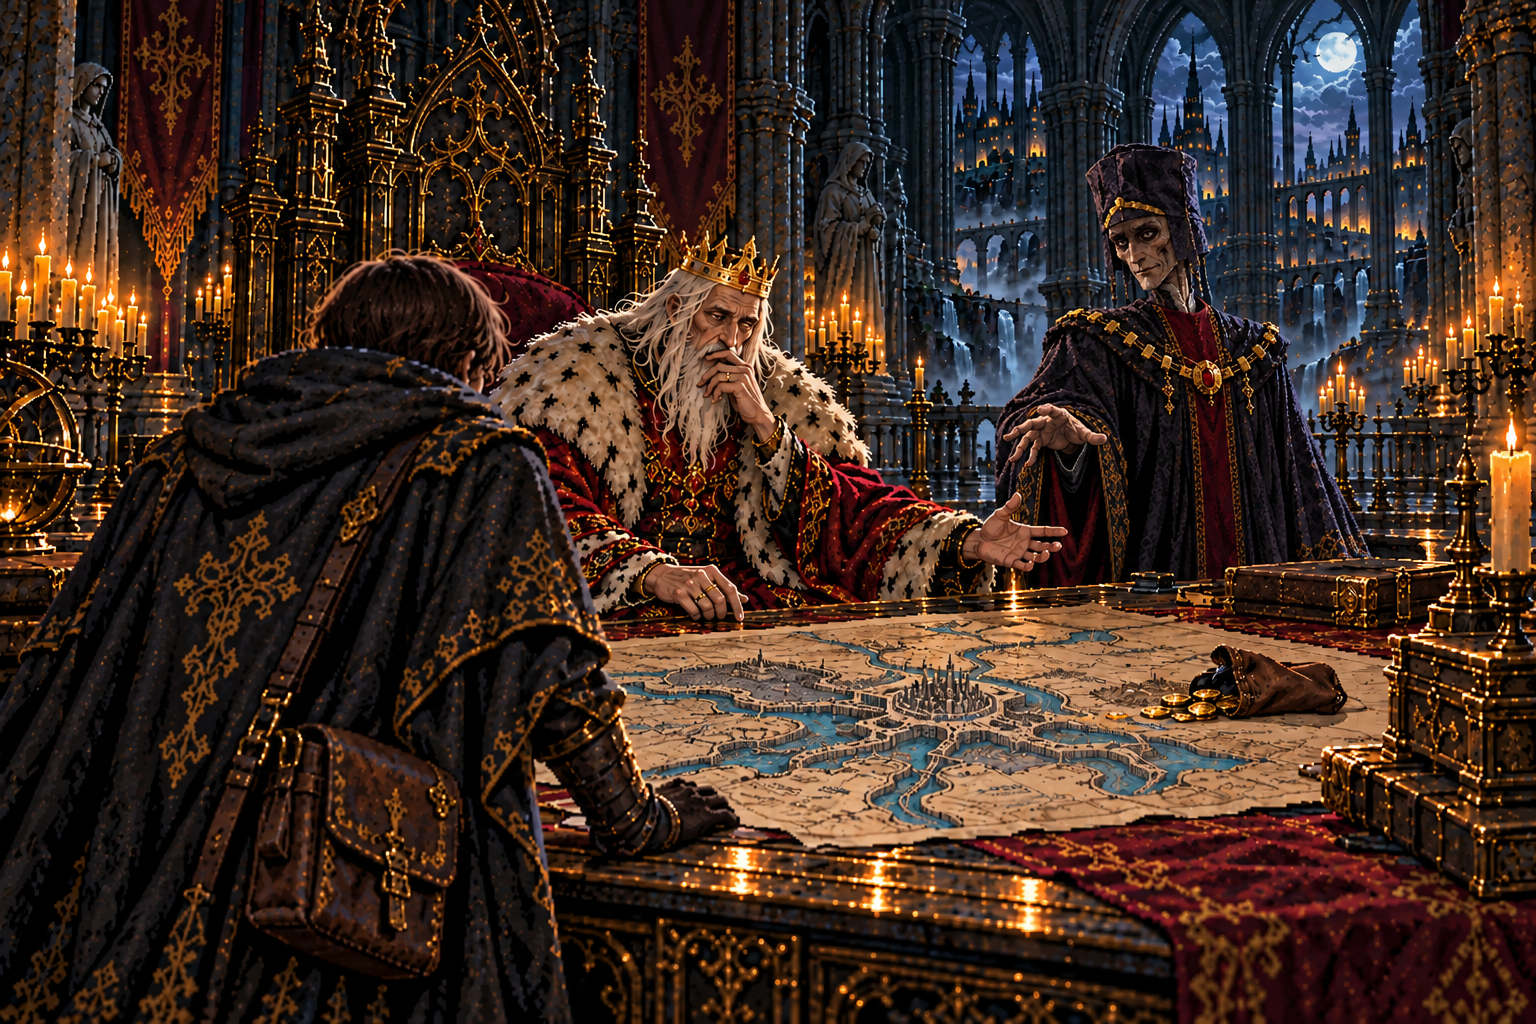
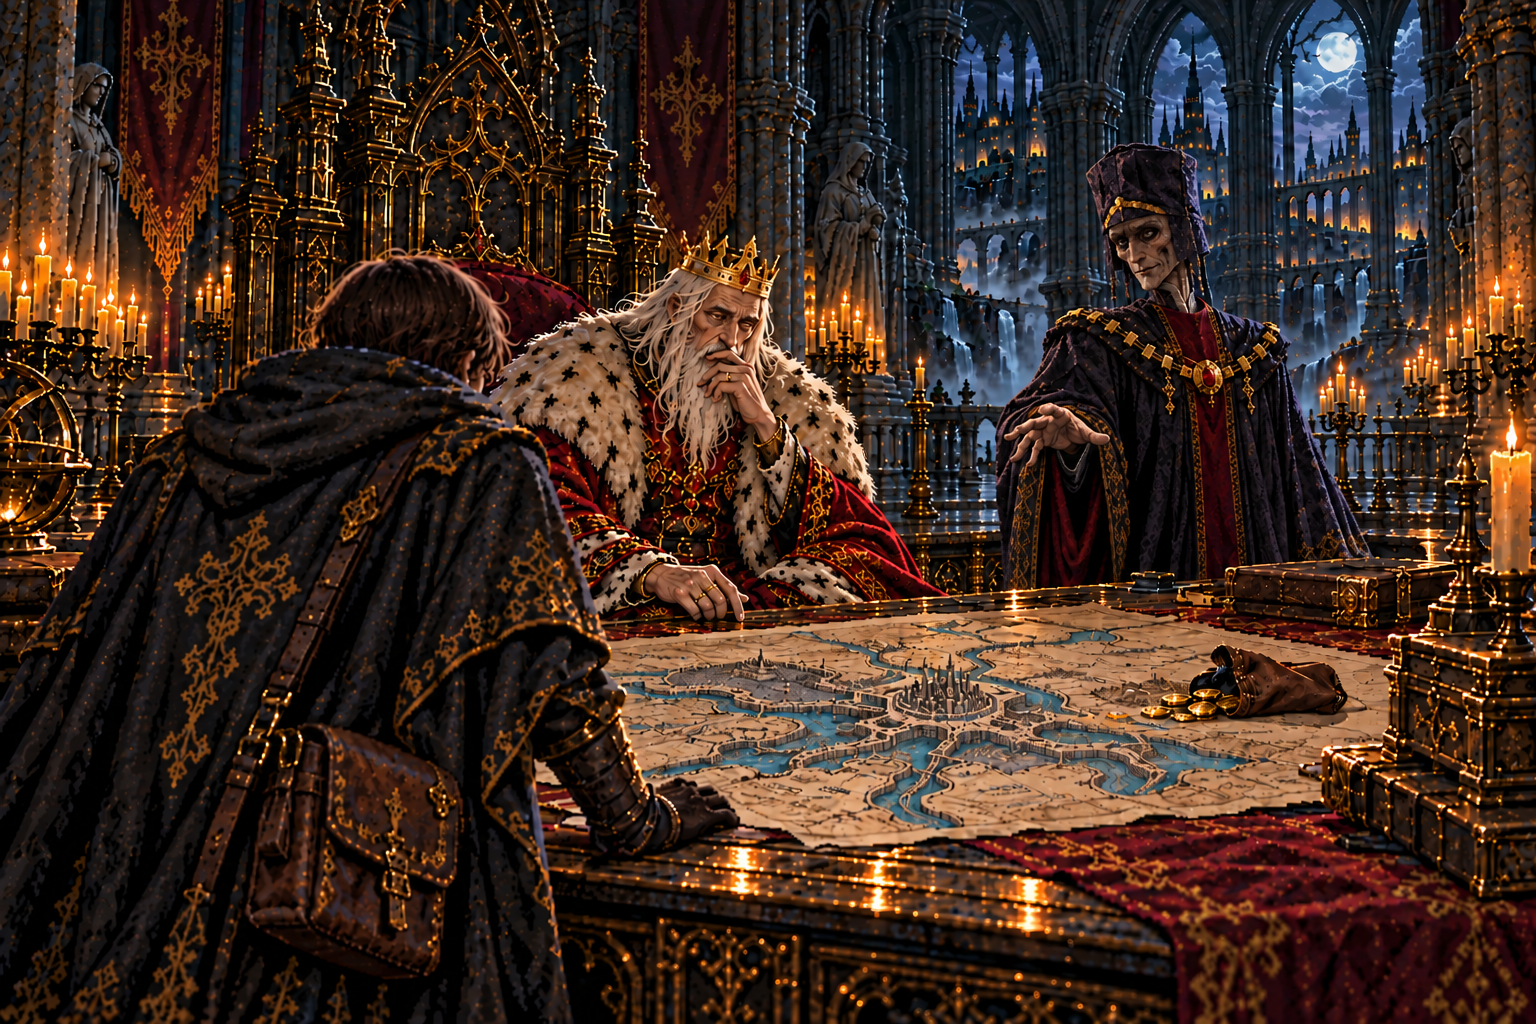
黒い水の行方の王の余分な手を修正

diff --git a/docs/art/codex-story-art-brief.md b/docs/art/codex-story-art-brief.md
@@ -214,6 +214,13 @@ Character reference sheet on a plain dark slate-blue background with soft even l
 
 ### A. 必須 (物語の筋や正典と食い違う)
 
+**A-36. 第一章 report_w04「答えを飲み込んだ王」** `art/story-review/chapter1/report_w04.png` (済)
+- 直す: 王の手が3本ある。画面右へ差し出した余分な手と、それにつながる腕・袖を消し、赤い衣と白い毛皮の自然な折り目にする。
+- 保つもの: 口元に添えた手、机に置いた手、王の顔と姿勢、宰相、弟子、地図、金貨、構図、画風、光。
+```text
+...except: the seated king currently has THREE hands. Remove ONLY the extra outstretched hand at image-right, centered near x=1015,y=535, and its attached extra arm and sleeve extending from the king's right side. Replace this extra limb with the natural folds of the king's red robe and white black-spotted ermine cape lying close to his body and lap. Preserve exactly the hand touching his mouth and the hand resting on the table near x=690,y=590, with their existing connected arms: these are his only two hands and arms. Preserve his pensive face and posture, the chancellor's gesturing hand, the apprentice, the map, coins, throne, architecture, composition, pixel texture, colors and lighting. Make no other changes.
+```
+
 **A-1. 序章 irene_repair「砕けても、名は消えない」** `art/story-review/prologue/irene-repair.png` (済)
 - 直す: 作業台の外れた人業の頭と、棚の人業に目鼻が彫られている → 人業の頭は何も彫られていない丸い木 (`src/story.js` の館の語り「人業の頭は、もとは何も彫られていない、丸い木なのです」)。
 - 保つもの: 砕けた魂の結晶、イレーヌ、弟子。
